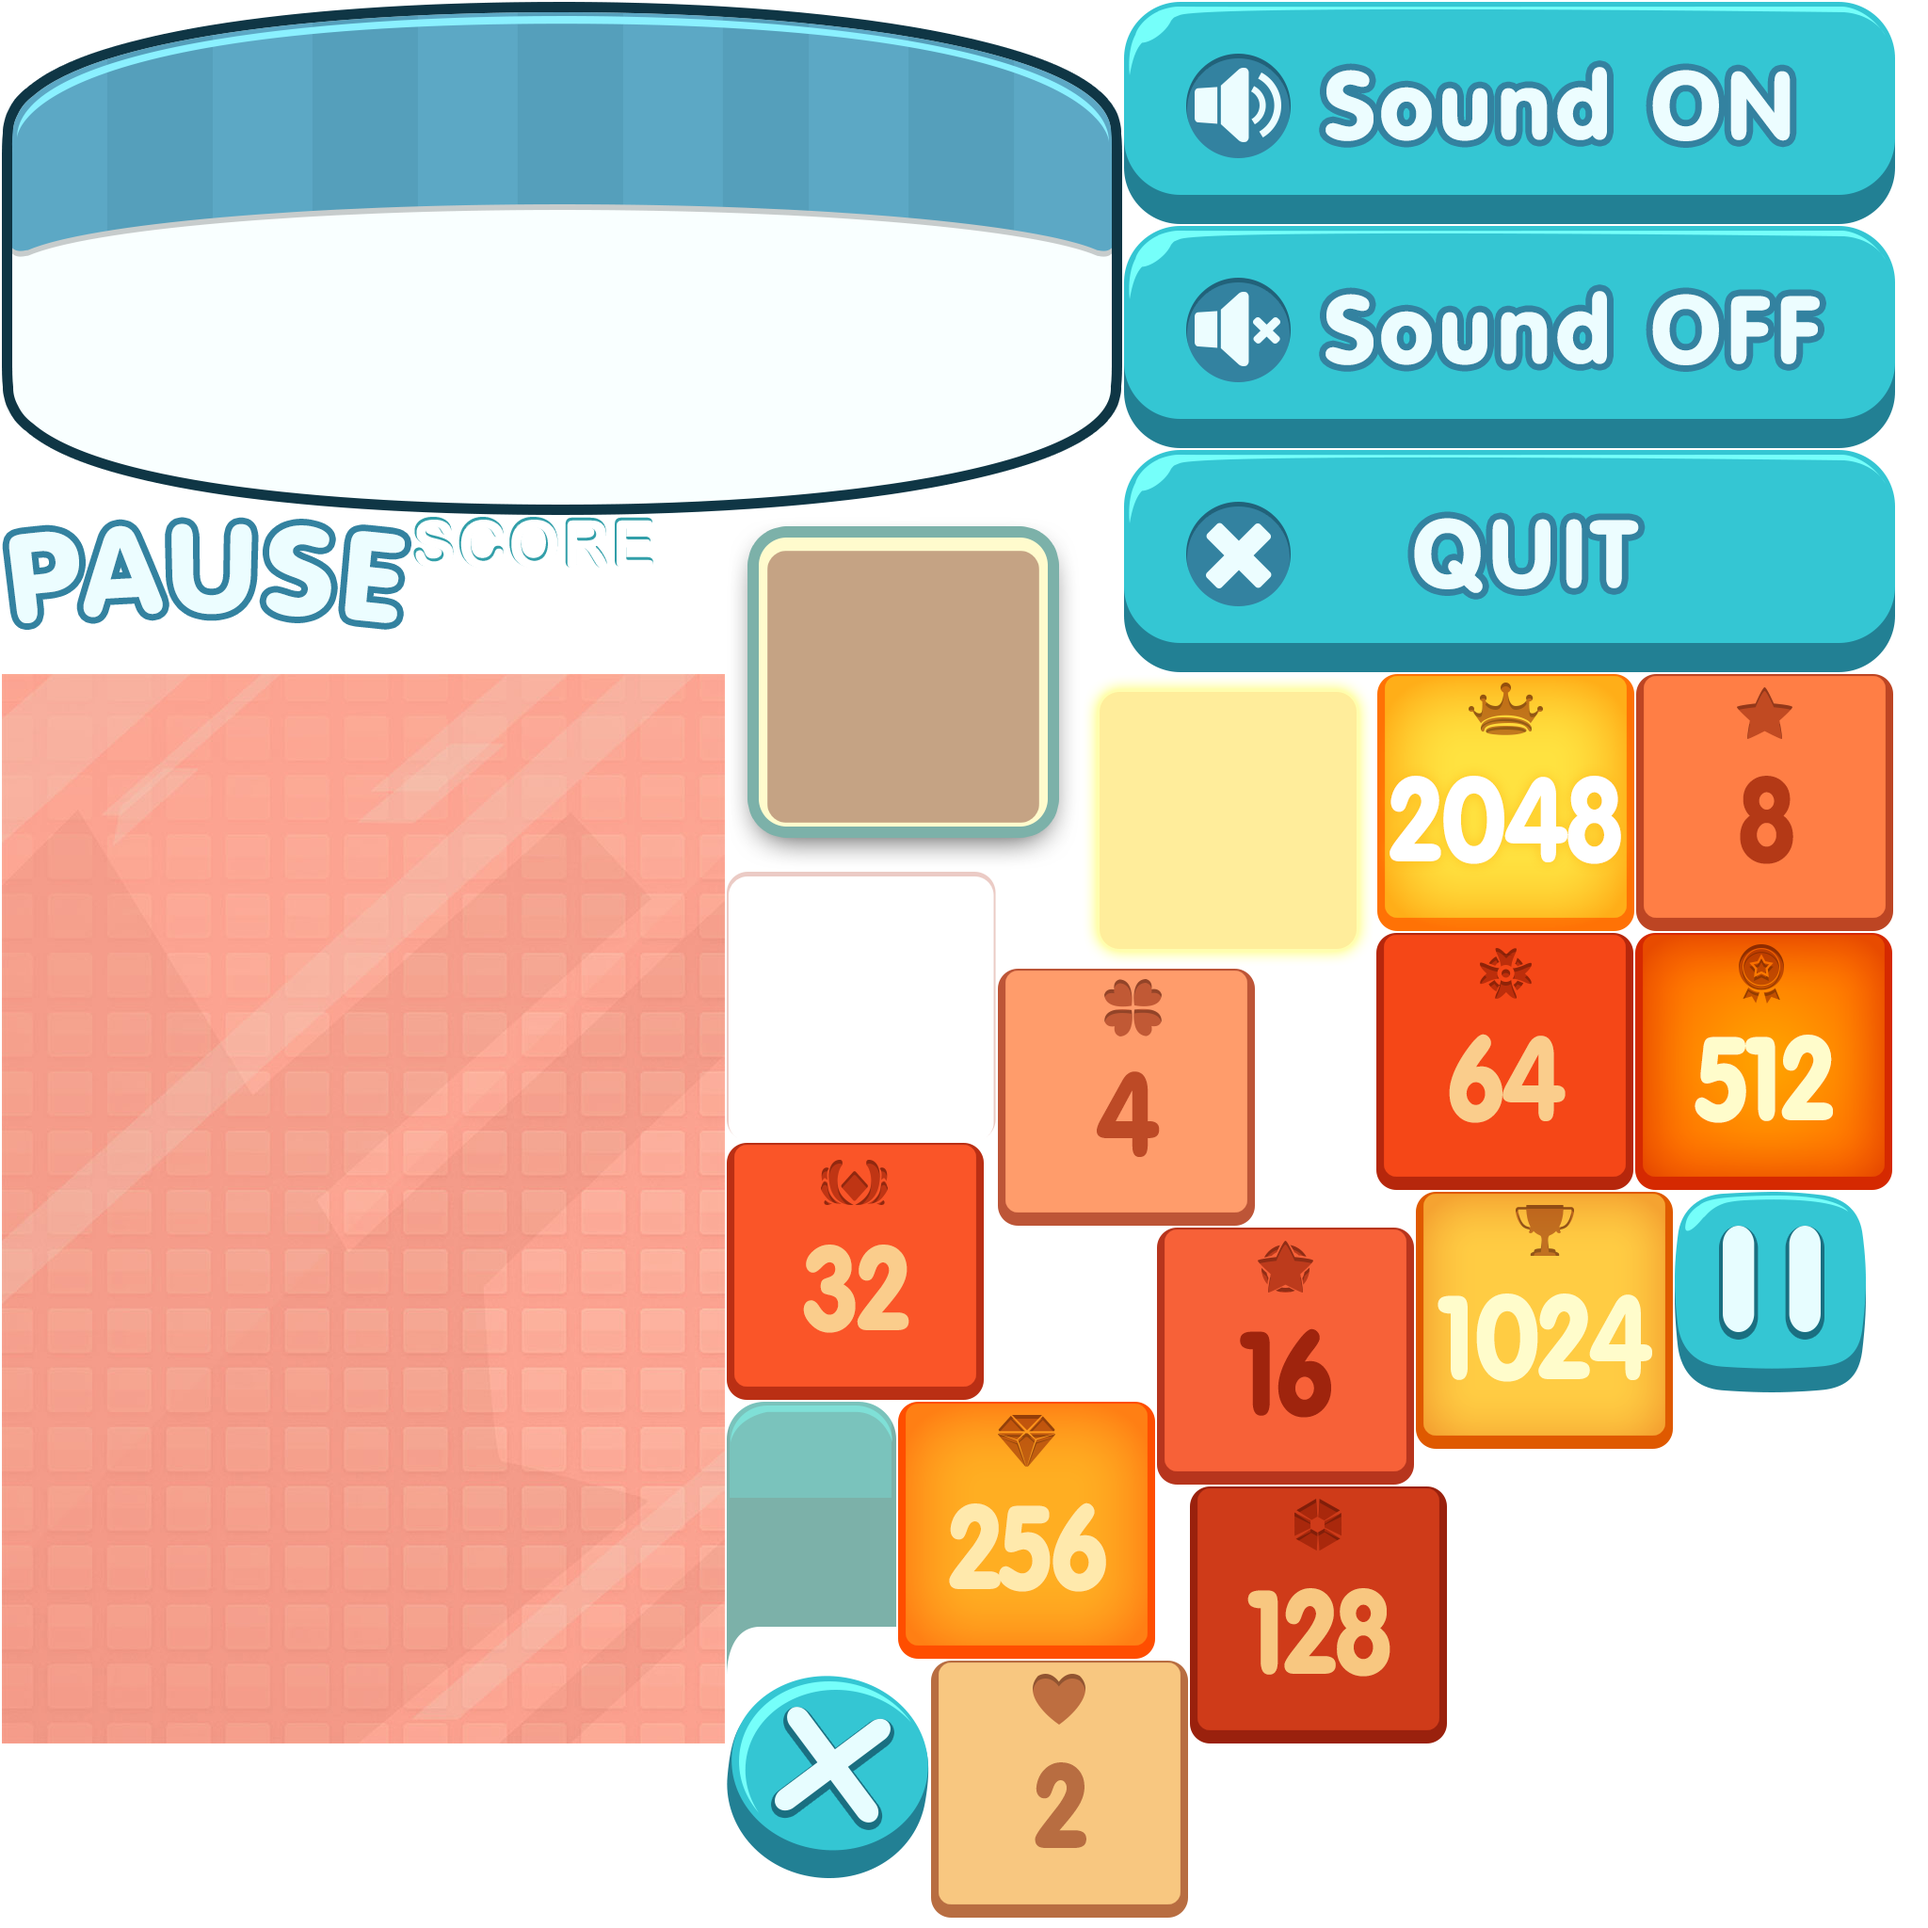
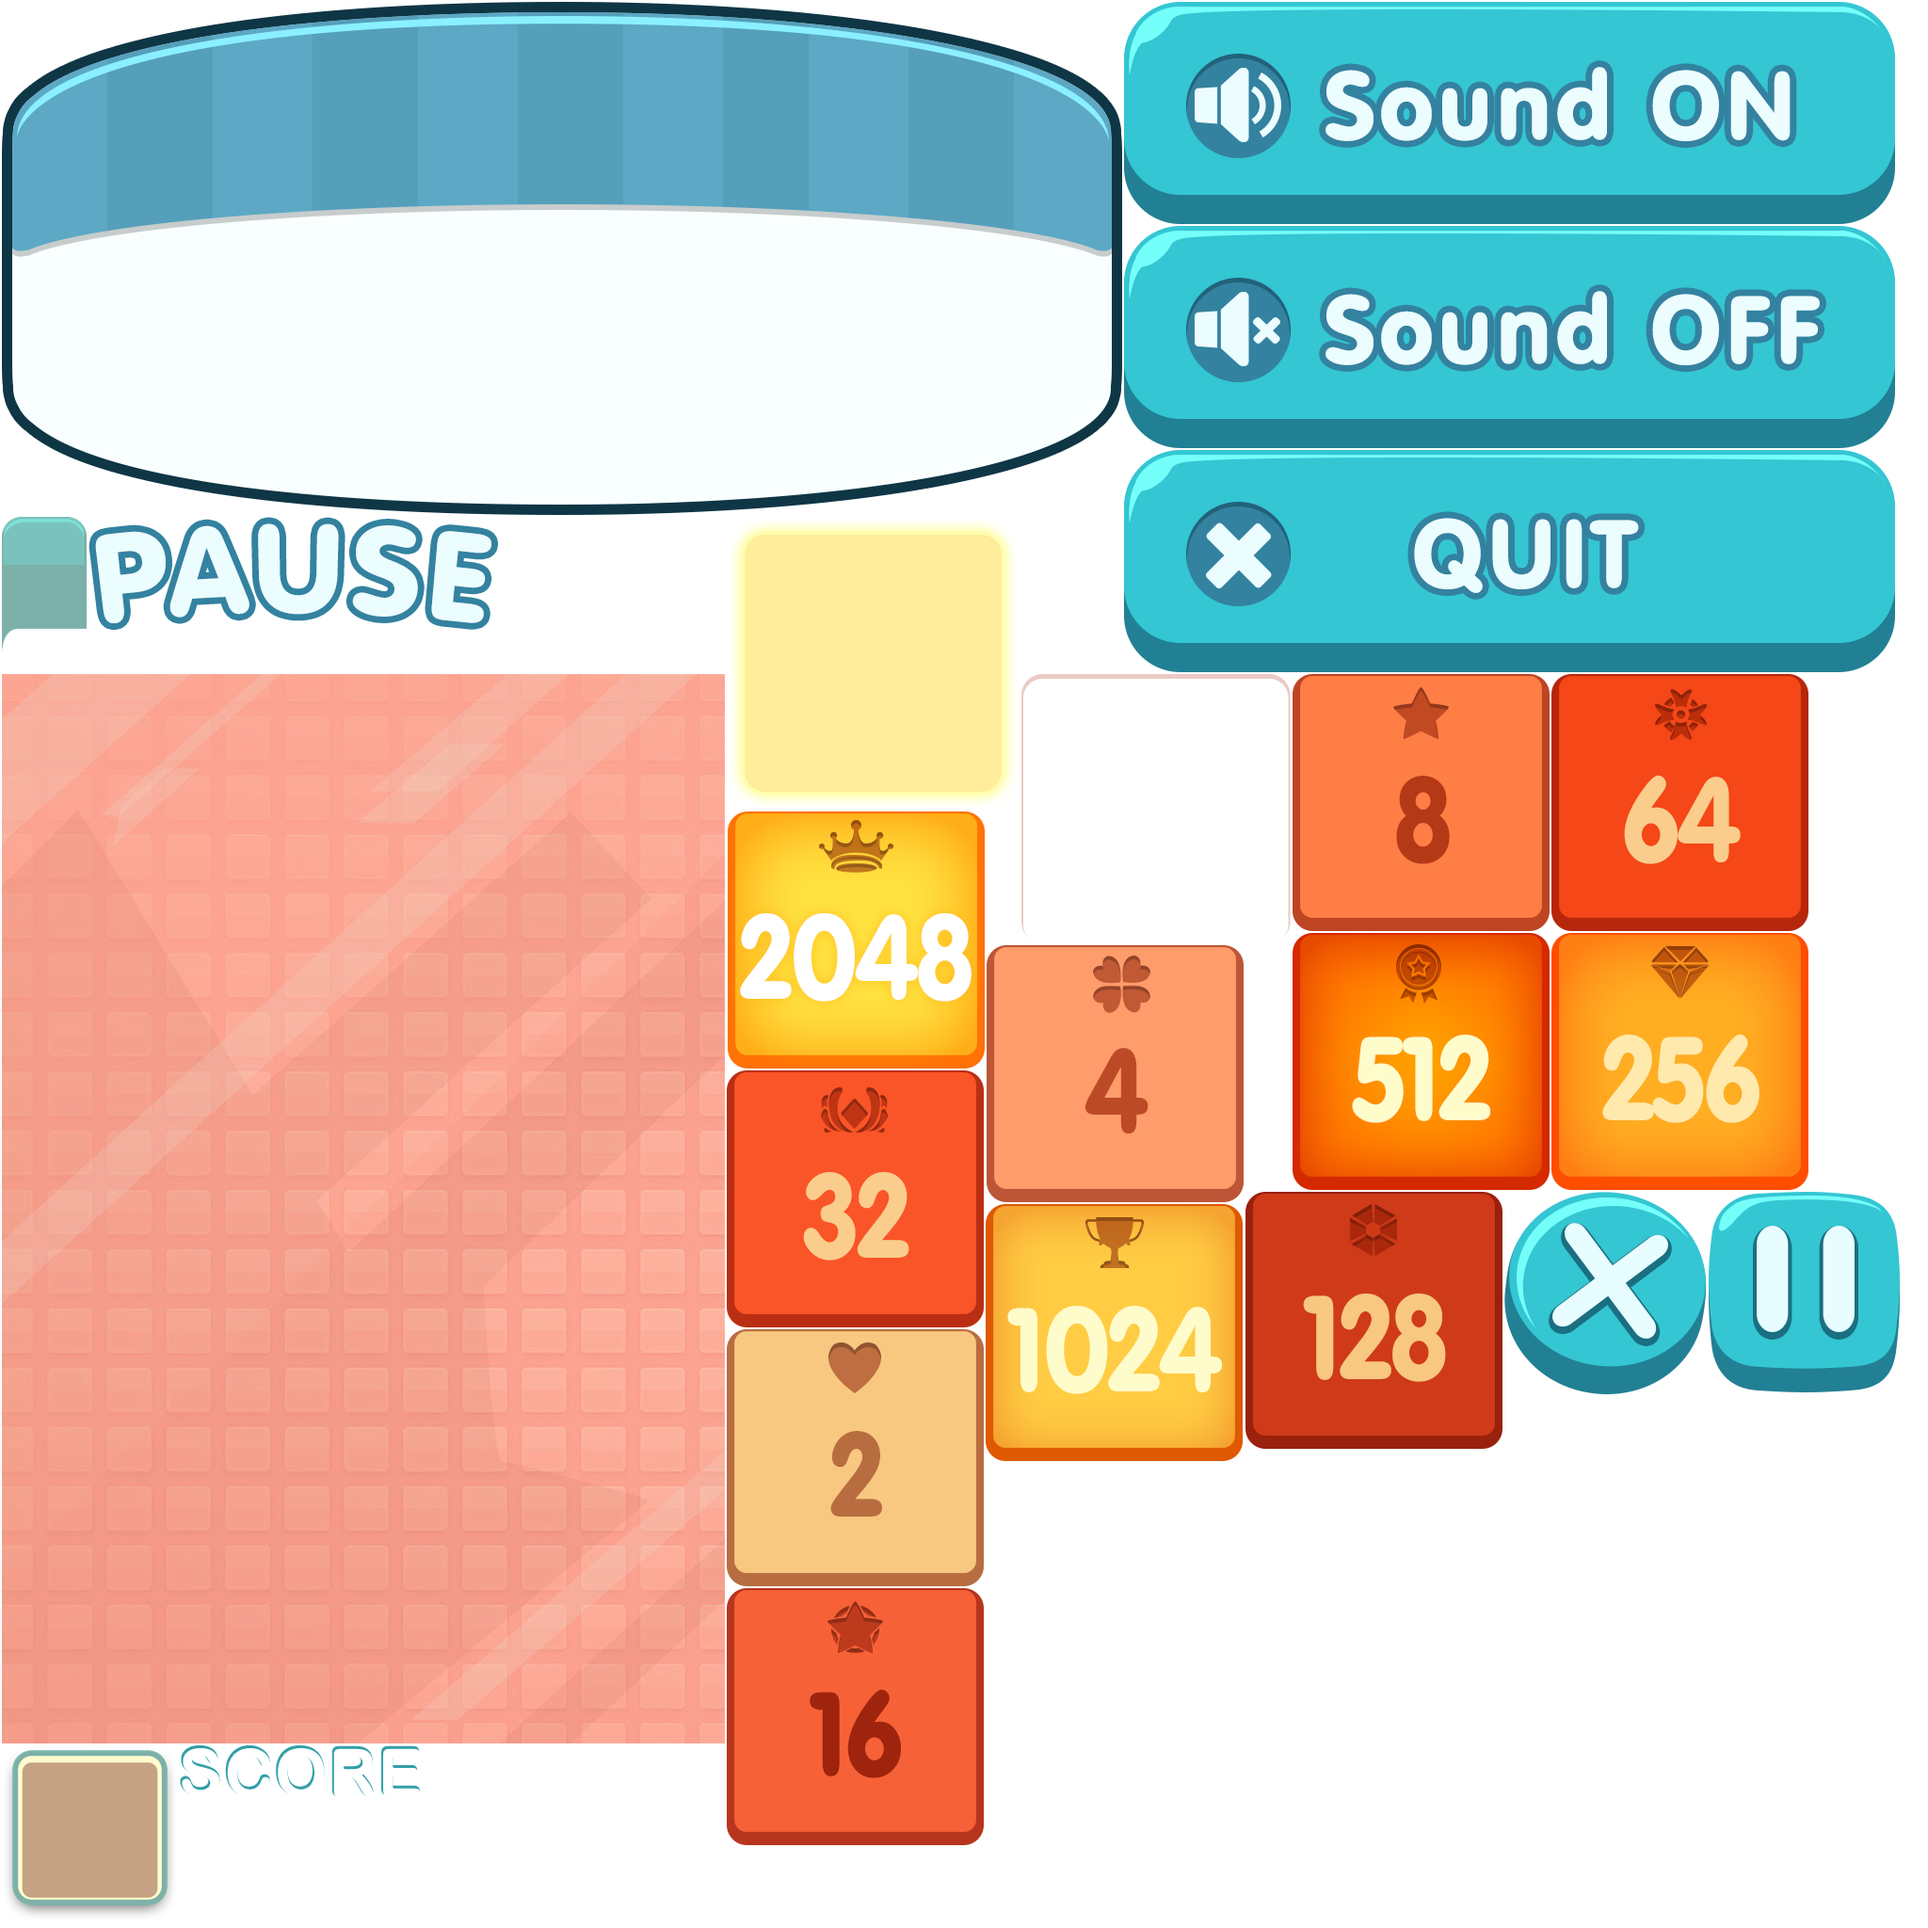
game UI

diff --git a/Assets/Scripts/GameManager.cs b/Assets/Scripts/GameManager.cs
@@ -12,6 +12,7 @@ public class GameManager : BaseScreen {
   
   // public GridManager gridManager;
   // public TileManager tileManager;
+	public UISprite cellBackground;
 	public UILabel scoreLabel;
   public static GameManager Instance { get; private set; }
   
@@ -22,16 +23,18 @@ public class GameManager : BaseScreen {
     RIGHT
   }
   
-	public override void Init() {}
-  
-	void Start() {
-    Instance = this;
+	public override void Init() {
+		Instance = this;
 		transform.GetComponent<GridManager>().Init(gameSize);
 		transform.GetComponent<TileManager>().Init();
     // GridManager.Instance.Init(gameSize);
     AddStartTiles();
 		score = 0;
-  }
+	}
+  
+	// void Start() {
+	// 
+	//   }
   
   void AddStartTiles() {
     for(int i = 0; i < startTiles; i++) {
@@ -67,7 +70,7 @@ public class GameManager : BaseScreen {
             tile.GetMerge(new Position(nextTile.x, nextTile.y), nextTile.tileValue * 2, nextTile);
             TileManager.Instance.RemoveTile(nextTile);
 						score += tile.tileValue;
-						scoreLabel.text = "Score: " + score;
+						scoreLabel.text = score.ToString();
 						if (tile.tileValue == wonTileValue) {
 							Debug.Log("WON");
 						}

diff --git a/Assets/NGUI/Scripts/Interaction/UITable.cs b/Assets/NGUI/Scripts/Interaction/UITable.cs
@@ -11,7 +11,7 @@ using System.Collections.Generic;
 /// with rows and columns automatically adjusting their size to fit their content
 /// (think "table" tag in HTML).
 /// </summary>
-
+[ExecuteInEditMode]
 [AddComponentMenu("NGUI/Interaction/Table")]
 public class UITable : UIWidgetContainer
 {
@@ -69,6 +69,8 @@ public class UITable : UIWidgetContainer
 	protected bool mInitDone = false;
 	protected bool mReposition = false;
 	protected List<Transform> mChildren = new List<Transform>();
+
+	public bool doRepositionNow = false;
 
 	/// <summary>
 	/// Reposition the children on the next Update().
@@ -251,6 +253,10 @@ public class UITable : UIWidgetContainer
 
 	protected virtual void LateUpdate ()
 	{
+		if (doRepositionNow) {
+			Reset();
+			doRepositionNow = false;
+		}
 		if (mReposition) Reposition();
 		enabled = false;
 	}

diff --git a/Assets/Scripts/Grid.cs b/Assets/Scripts/Grid.cs
@@ -7,6 +7,7 @@ public class Grid : MonoBehaviour {
   public int y;
   public int gridValue;
   public Transform thisTransform;
+	public UISprite background;
   
   public void Init(Position pos, int gridValue) {
     thisTransform = transform;
